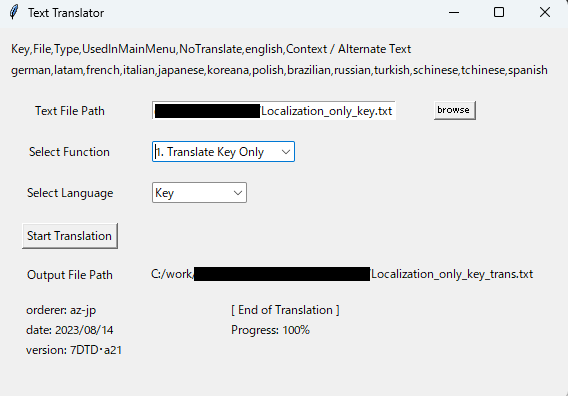
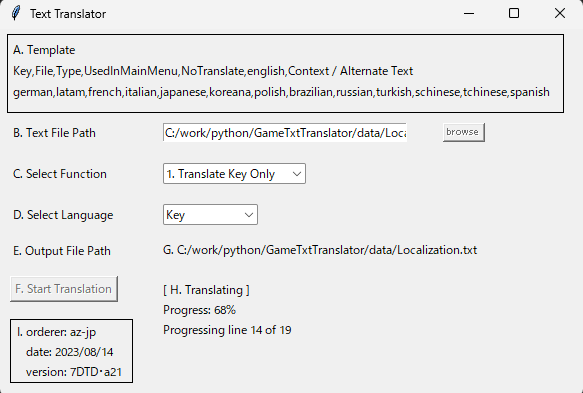
GUIデザインの変更に対応 指定したファイル名のまま出力し、元ファイルにはoldをつけるように変更 翻訳したファイルの最初に日付を入力するように変更

diff --git a/text_translate.py b/text_translate.py
@@ -6,8 +6,10 @@ from tkinter import filedialog
 import tkinter.ttk as ttk
 import threading
 from pprint import pprint
+import datetime
 import time
 from itertools import zip_longest
+import shutil
 
 from googletrans import Translator
 # https://py-googletrans.readthedocs.io/en/latest/
@@ -38,17 +40,19 @@ class GUI:
         self.root.title("Text Translator")
 
         # ヘッダーテンプレート表示
+        self.template_outline        = tk.Label(text="", height=5, width=79, relief=tk.SOLID, bd=1)
+        self.label_template          = tk.Label(text="A. Template")
         self.header_template_split_0 = ",".join(self.header_template.split(",")[ 0: 7])
         self.header_template_split_1 = ",".join(self.header_template.split(",")[ 7:])
         self.label_header_template_0 = tk.Label(text=self.header_template_split_0)
         self.label_header_template_1 = tk.Label(text=self.header_template_split_1)
 
         # ファイル選択
-        label_file_path = tk.Label(text="Text File Path")
+        label_file_path = tk.Label(text="B. Text File Path")
         self.textbox_file_path = tk.Entry(width = 40)
 
         # 機能選択プルダウンメニュー
-        label_select_function        = tk.Label(text="Select Function")
+        label_select_function        = tk.Label(text="C. Select Function")
         self.combbox_function_values = ("1. Translate Key Only", "2. Translate Language")
         self.combbox_function        = ttk.Combobox(width = 20, height = 7, values = self.combbox_function_values)
         self.combbox_function.set(self.combbox_function_values[0])
@@ -58,42 +62,42 @@ class GUI:
         self.filedialog_btn = tk.Button(self.root, text="browse", command=self.__open_filedialog, font=("", 8))
 
         # 言語選択プルダウンメニュー
-        label_language = tk.Label(text="Select Language")
+        label_language = tk.Label(text="D. Select Language")
         self.combbox_language_values_0 = ("Key")
         self.combbox_language_values_1 = ("Key", "english","german","latam","french","italian","japanese","koreana","polish","brazilian","russian","turkish","schinese","tchinese","spanish")
         self.combbox_language = ttk.Combobox(width = 12, height=7, values=self.combbox_language_values_0)
         self.combbox_language.set(self.combbox_language_values_0) # Keyを初期値として設定
 
-        # 翻訳開始ボタン
-        self.button = tk.Button(self.root, text="Start Translation", command=self.__start_process)
-
         # 出力先ファイル表示
-        self.label_output      = tk.Label(text="Output File Path")
+        self.label_output      = tk.Label(text="E. Output File Path")
         self.label_outfilename = tk.Label(text="")
 
+        # 翻訳開始ボタン
+        self.button = tk.Button(self.root, text="F. Start Translation", command=self.__start_process)
+
         # 各種情報
-        self.label_orderer = tk.Label(text="orderer: az-jp")
-        self.label_date    = tk.Label(text="date: 2023/08/14")
-        self.label_version = tk.Label(text="version: 7DTD・a21")
+        self.outline       = tk.Label(text="", height=4, width=17, relief=tk.SOLID, bd=1)
+        self.label_orderer = tk.Label(text="I. orderer: az-jp"    )
+        self.label_date    = tk.Label(text="   date: 2023/08/14"  )
+        self.label_version = tk.Label(text="   version: 7DTD・a21")
 
         # 実行時表示部
         self.label_converting    = tk.Label(text="")
         self.label_progress      = tk.Label(text="")
         self.label_progress_line = tk.Label(text="")
 
-        self.label_header_template_0.grid(row=0, column=0, padx=10, pady=(10,0), columnspan=5, sticky=tk.W)
-        self.label_header_template_1.grid(row=1, column=0, padx=10, pady=(0,10), columnspan=5, sticky=tk.W)
-        label_file_path             .grid(row=2, column=0, padx=10, pady=10)
-        self.textbox_file_path      .grid(row=2, column=1, padx=10, pady=10, sticky=tk.W)
-        self.filedialog_btn         .grid(row=2, column=2, padx=0 , pady=0 , sticky=tk.W)
-        label_select_function       .grid(row=3, column=0, padx=10, pady=10)
-        self.combbox_function       .grid(row=3, column=1, padx=10, pady=10, sticky=tk.W)
-        label_language              .grid(row=4, column=0, padx=10, pady=10)
-        self.combbox_language       .grid(row=4, column=1, padx=10, pady=10, sticky=tk.W)
-        self.button                 .grid(row=5, column=0, padx=10, pady=10)
-        self.label_output           .grid(row=6, column=0, padx=10, pady=5)
-
-        # self.__set_place(150, 195)
+        self.label_template         .grid(row=0, column=0, padx=10, pady=(10, 0), sticky=tk.W)
+        self.label_header_template_0.grid(row=1, column=0, padx=10, pady=0, columnspan=5, sticky=tk.W)
+        self.label_header_template_1.grid(row=2, column=0, padx=10, pady=(0,10), columnspan=5, sticky=tk.W)
+        label_file_path             .grid(row=3, column=0, padx=10, pady=10    , sticky=tk.W)
+        self.textbox_file_path      .grid(row=3, column=1, padx=10, pady=10    , sticky=tk.W)
+        self.filedialog_btn         .grid(row=3, column=2, padx= 0, pady= 0    , sticky=tk.W)
+        label_select_function       .grid(row=4, column=0, padx=10, pady=10    , sticky=tk.W)
+        self.combbox_function       .grid(row=4, column=1, padx=10, pady=10    , sticky=tk.W)
+        label_language              .grid(row=5, column=0, padx=10, pady=10    , sticky=tk.W)
+        self.combbox_language       .grid(row=5, column=1, padx=10, pady=10    , sticky=tk.W)
+        self.label_output           .grid(row=6, column=0, padx=10, pady= 5    , sticky=tk.W)
+        self.button                 .grid(row=7, column=0, padx=10, pady=10    , sticky=tk.W)
 
         # 画面リサイズされた時の挙動設定
         self.root.bind("<Configure>", self.__resize_frame)
@@ -104,24 +108,33 @@ class GUI:
         self.root.mainloop()
 
     # placeによる配置 (ウィンドウサイズに合わせて動的に変更しやすくするために関数化)
-    def __set_place(self, x, y):
+    def __set_place(self, x, y, template_outline_flg):
+        # templateの外枠
+        if (template_outline_flg == 1):
+            self.template_outline.place(x=7, y=5)
+        else:
+            self.template_outline.place_forget()
+
         self.label_outfilename.place(x=x, y=y)
 
-        label_orderer_y = y + 36
-        self.label_orderer      .place(x=max(13, x - 125), y=label_orderer_y +  0)
-        self.label_date         .place(x=max(13, x - 125), y=label_orderer_y + 20)
-        self.label_version      .place(x=max(13, x - 125), y=label_orderer_y + 40)
+        label_orderer_y = y + 82
+        self.outline            .place(x=10    , y=label_orderer_y -  2)
+        self.label_orderer      .place(x=14    , y=label_orderer_y +  0)
+        self.label_date         .place(x=14    , y=label_orderer_y + 20)
+        self.label_version      .place(x=14    , y=label_orderer_y + 40)
 
-        self.label_converting   .place(x=x + 80, y=label_orderer_y +  0)
-        self.label_progress     .place(x=x + 80, y=label_orderer_y + 20)
-        self.label_progress_line.place(x=x + 80, y=label_orderer_y + 40)
+        self.label_converting   .place(x=x, y=label_orderer_y +  0 - 42)
+        self.label_progress     .place(x=x, y=label_orderer_y + 20 - 42)
+        self.label_progress_line.place(x=x, y=label_orderer_y + 40 - 42)
 
     # 機能プルダウンメニューで選択が行われたときに実施
     def __update_combbox_language(self, event):
         if (self.combbox_function.get() == self.combbox_function_values[0]):
+            # 機能1
             self.combbox_language["values"] = self.combbox_language_values_0
             self.combbox_language.set(self.combbox_language_values_0)
         else:
+            # 機能2
             self.combbox_language["values"] = self.combbox_language_values_1
             self.combbox_language.set(self.combbox_language_values_1[0])
 
@@ -131,17 +144,18 @@ class GUI:
         self.root.update_idletasks()
         window_width  = self.root.winfo_width()
         window_height = self.root.winfo_height()
-        # print(window_width, window_height)
 
         # 動的に文字列を表示、非表示するコードのサンプル
         if (window_width < 560):
+            self.label_template         .grid_remove()
             self.label_header_template_0.grid_remove()
             self.label_header_template_1.grid_remove()
-            self.__set_place(125, 174)
+            self.__set_place(137, 129, template_outline_flg=0)
         else:
+            self.label_template         .grid()
             self.label_header_template_0.grid()
             self.label_header_template_1.grid()
-            self.__set_place(150, 235)
+            self.__set_place(160, 210, template_outline_flg=1)
 
     # 終了の動作
     def __on_closing(self):
@@ -176,10 +190,6 @@ class GUI:
                 text_file_path  = re.sub("\"$", "", re.sub("^\"", "", self.textbox_file_path.get())) # windows explorerの「パスのコピー」で絶対パスを使った場合に対応するため、先頭と末尾のダブルクォーテーションを削除している
                 select_language = self.combbox_language.get()
 
-                # 出力ファイル名設定
-                self.output_filename = f"{os.path.splitext(text_file_path)[0]}_trans.txt"
-                self.label_outfilename["text"] = self.output_filename # 出力ファイル名を表示
-
                 # 各設定値が空白の時はエラーを返す
                 if (text_file_path == ""):
                     print("[ERROR] Text File Path is empty.")
@@ -201,6 +211,13 @@ class GUI:
                     self.button["state"] = "normal"
                     continue
 
+                # 元のファイルをoldとしてコピー
+                shutil.copy(text_file_path, os.path.splitext(text_file_path)[0] + "_old.txt")
+
+                # 出力ファイル名設定
+                self.output_filename = text_file_path # f"{os.path.splitext(text_file_path)[0]}_trans.txt"
+                self.label_outfilename["text"] = f"G. {self.output_filename}" # 出力ファイル名を表示
+
                 self.__run_text_translate(text_file_path, select_language)
 
                 self.start_flg = 0
@@ -219,8 +236,11 @@ class GUI:
     def __run_text_translate(self, text_file_path, select_language):
         global GUI_END_FLG
 
-        self.label_converting   ["text"] = "[ Translating ]"
+        self.label_converting   ["text"] = "[ H. Translating ]"
         self.label_progress     ["text"] = "Progress: 0%"
+
+        # 処理開始した時間を取得
+        process_start_time = datetime.datetime.now().strftime("%Y/%m/%d %H:%M:%S")
 
         # テキストデータ読み込み
         text_header, text_dict_lists = self.__read_text(text_file_path)
@@ -315,6 +335,10 @@ class GUI:
 
         # ファイル出力
         with open(self.output_filename, "w", encoding="utf-8", errors="ignore") as f:
+            # 処理開始時間をコメントアウトで記入
+            f.write(f"<!-- {process_start_time} -->\n")
+
+            # 翻訳結果を記入
             for i, item in enumerate(text_dict_lists):
                 # ヘッダー記述 (最初だけ)
                 if (i == 0):
@@ -326,7 +350,7 @@ class GUI:
                     f.write("<!-- The line below is skipping translation because the selected language is blank -->\n")
                 f.writelines(",".join([str(value) for value in item.values()]) + "\n")
 
-        self.label_converting   ["text"] = "[ End of Translation ]"
+        self.label_converting   ["text"] = "[ H. End of Translation ]"
         self.label_progress_line["text"] = ""
 
     def __read_text(self, text_file_path):
